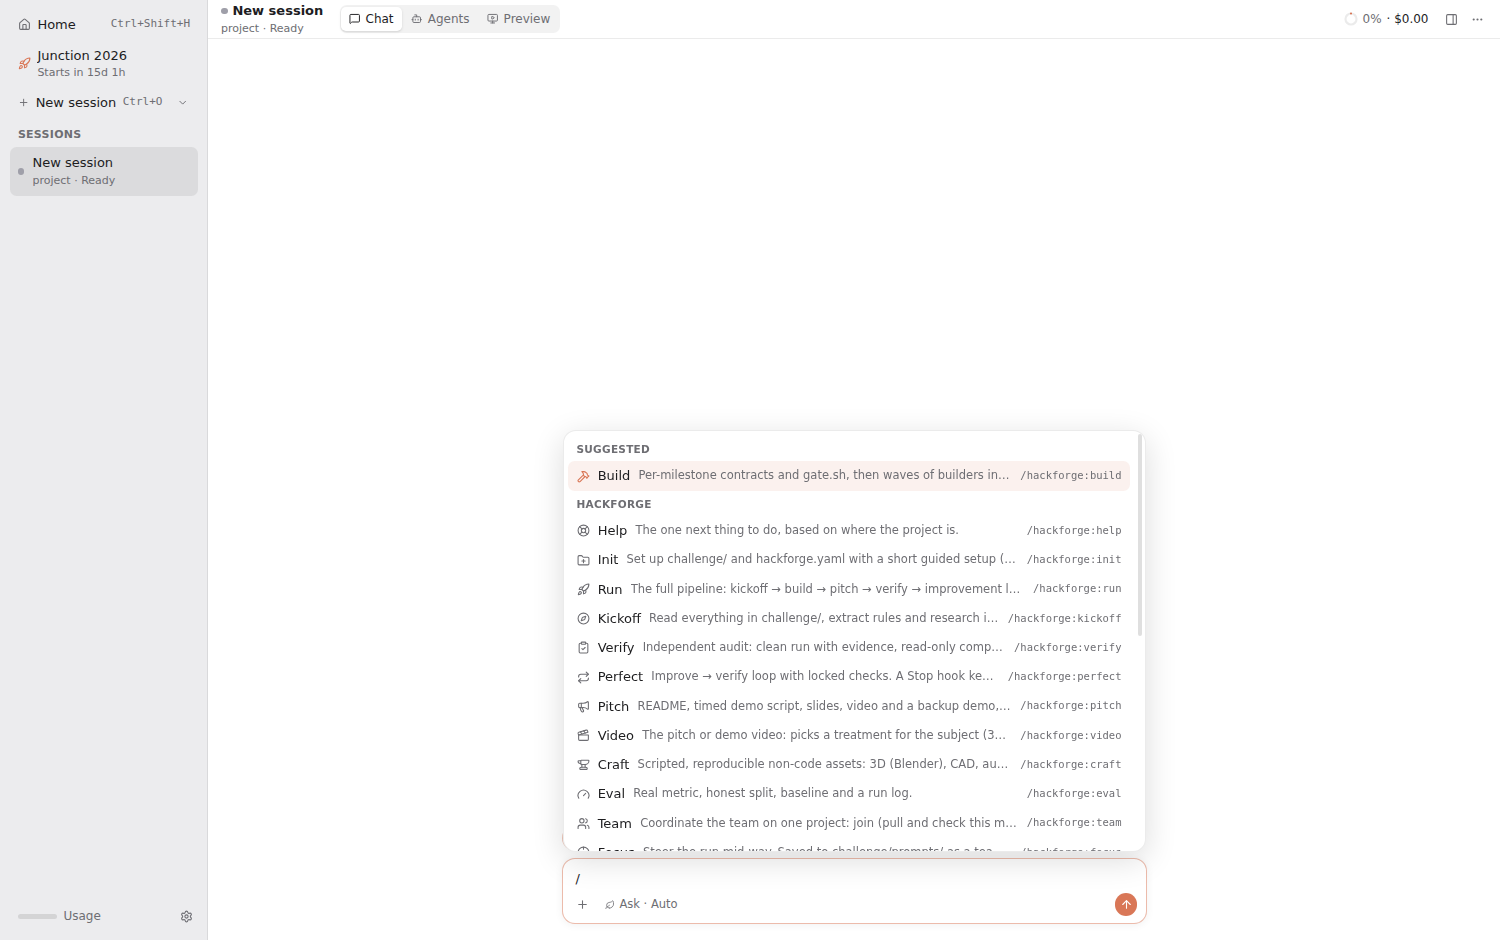
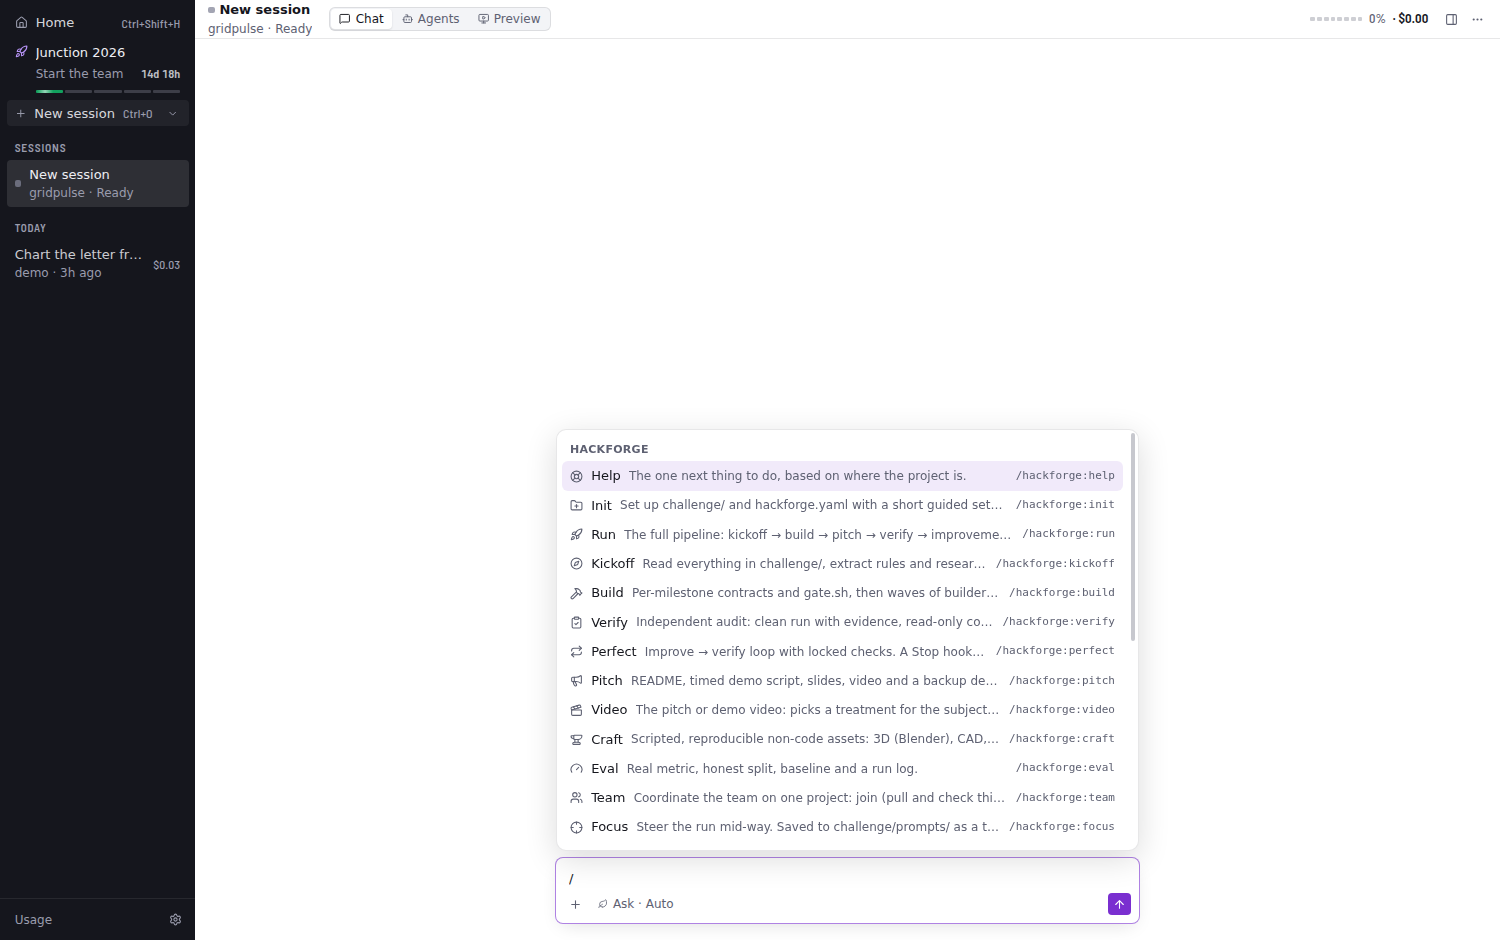
Live timing look: last review items, new README screenshots
- Violet stays for the best result and the primary button: the
  schedule's plan markers, "now" line and next item turn blue or ink,
  the theme chip, team-fit dots and your own team card go neutral.
- The top bar never wraps; in narrow windows the side-panel chip shows
  its icon only.
- The Home hackathon card shows the run's status under its name, so it
  no longer truncates next to the race clock.
- The unused pulse animation is gone.
- Every README screenshot retaken in the new look; alt texts follow the
  current names (Agents, Agents › Graph); a short note on the look.

diff --git a/src/renderer/src/features/event/EventSchedule.tsx b/src/renderer/src/features/event/EventSchedule.tsx
@@ -31,7 +31,7 @@ export function EventSchedule({ state }: { state: EventState }) {
             <div className="flex items-center gap-2">
               <CalendarClock className="size-5 text-accent-ink" />
               <h1 className="font-display text-[26px] font-semibold leading-tight">{config.name}</h1>
-              {config.theme && <span className="rounded-sm bg-accent/10 px-2 py-0.5 text-[11px] font-medium text-accent-ink">{config.theme}</span>}
+              {config.theme && <span className="rounded-sm border border-line bg-surface-2 px-2 py-0.5 text-[12px] font-medium">{config.theme}</span>}
             </div>
             {config.tagline && <div className="mt-0.5 text-[13px] italic text-muted">“{config.tagline}”</div>}
             {config.location && (
@@ -179,7 +179,7 @@ function Weekend({ state, now }: { state: EventState; now: number }) {
         <span className="ml-auto flex items-center gap-3 text-[11px] text-muted">
           <Legend className="bg-danger" label="Deadline" />
           <Legend className="bg-fg/50" label="Official" />
-          <Legend className="bg-accent" label="Our plan" />
+          <Legend className="bg-info" label="Our plan" />
           <Legend className="bg-(--series-7)/60" label="Sleep" />
         </span>
       </div>
@@ -205,9 +205,9 @@ function Weekend({ state, now }: { state: EventState; now: number }) {
           .filter((m) => m.kind === 'plan')
           .map((m) =>
             m.tEnd ? (
-              <div key={m.id} title={tip(m, tz)} className="absolute top-[40px] h-2 rounded-full bg-accent/40" style={{ left: pct(m.t), width: `calc(${pct(m.tEnd)} - ${pct(m.t)})` }} />
+              <div key={m.id} title={tip(m, tz)} className="absolute top-[40px] h-2 rounded-full bg-info/40" style={{ left: pct(m.t), width: `calc(${pct(m.tEnd)} - ${pct(m.t)})` }} />
             ) : (
-              <Marker key={m.id} m={m} tz={tz} left={pct(m.t)} top={38} className={cn('size-2.5 rounded-[2px] bg-accent', next?.id === m.id && 'ring-4 ring-accent-ink/25')} />
+              <Marker key={m.id} m={m} tz={tz} left={pct(m.t)} top={38} className={cn('size-2.5 rounded-[2px] bg-info', next?.id === m.id && 'ring-4 ring-info/25')} />
             ),
           )}
         {/* lane 3: sleep */}
@@ -219,8 +219,8 @@ function Weekend({ state, now }: { state: EventState; now: number }) {
             </div>
           ))}
         {now > t0 && now < t1 && (
-          <div className="absolute inset-y-0 w-0.5 bg-accent" style={{ left: pct(now) }}>
-            <span className="absolute -top-1 left-1 rounded bg-accent px-1 text-[9px] font-semibold text-white">now</span>
+          <div className="absolute inset-y-0 w-0.5 bg-fg" style={{ left: pct(now) }}>
+            <span className="num absolute -top-1 left-1 rounded-sm bg-fg px-1 text-[11px] font-semibold text-surface">now</span>
           </div>
         )}
       </div>
@@ -268,19 +268,19 @@ function Agenda({ state, now }: { state: EventState; now: number }) {
             const past = (m.tEnd ?? m.t) < now
             const isNext = clock.next?.id === m.id
             return (
-              <div key={m.id} title={m.note} className={cn('flex items-start gap-2 rounded px-1 py-0.5 text-[12px]', past && 'opacity-45', isNext && 'bg-accent/10')}>
+              <div key={m.id} title={m.note} className={cn('flex items-start gap-2 rounded px-1 py-0.5 text-[12px]', past && 'opacity-45', isNext && 'bg-info/10')}>
                 <span className="w-10 shrink-0 num text-muted">{formatInZone(m.t, tz, { hour: '2-digit', minute: '2-digit', hourCycle: 'h23' })}</span>
                 <span
                   className={cn(
                     'mt-1.5 size-1.5 shrink-0 rounded-[2px]',
-                    m.kind === 'deadline' ? 'bg-danger' : m.kind === 'official' ? 'bg-fg/50' : m.kind === 'sleep' ? 'bg-(--series-7)/60' : 'bg-accent',
+                    m.kind === 'deadline' ? 'bg-danger' : m.kind === 'official' ? 'bg-fg/50' : m.kind === 'sleep' ? 'bg-(--series-7)/60' : 'bg-info',
                   )}
                 />
                 <span className={cn('min-w-0 flex-1', m.kind === 'deadline' && 'font-semibold', m.kind === 'sleep' && 'text-muted')}>
                   {m.label}
                   {m.tEnd && <span className="text-muted"> → {formatInZone(m.tEnd, tz, { hour: '2-digit', minute: '2-digit', hourCycle: 'h23' })}</span>}
                 </span>
-                {isNext && <span className="shrink-0 text-[12px] num text-accent-ink">in {formatSpan(m.t - now)}</span>}
+                {isNext && <span className="num shrink-0 text-[12px] font-semibold text-info-ink">in {formatSpan(m.t - now)}</span>}
               </div>
             )
           })}

diff --git a/src/renderer/src/layout/TopBar.tsx b/src/renderer/src/layout/TopBar.tsx
@@ -79,11 +79,12 @@ function PanelChip({ session }: { session: SessionState }) {
     <button
       onClick={() => togglePanel()}
       title={shortcut('Side panel: tasks, changed files, agents (⌘I)')}
+      aria-label="Side panel"
       aria-pressed={open}
-      className={cn('no-drag flex h-7 items-center gap-1.5 rounded-md px-2 hover:bg-hover', open ? 'bg-active text-fg' : 'text-muted')}
+      className={cn('no-drag flex h-7 shrink-0 items-center gap-1.5 whitespace-nowrap rounded-md px-2 hover:bg-hover', open ? 'bg-active text-fg' : 'text-muted')}
     >
       <PanelRight className="size-4" />
-      {parts.length > 0 && <span className="num text-[13px]">{parts.join(' · ')}</span>}
+      {parts.length > 0 && <span className="num hidden text-[13px] min-[1180px]:inline">{parts.join(' · ')}</span>}
     </button>
   )
 }

diff --git a/src/renderer/src/features/event/TeamPanel.tsx b/src/renderer/src/features/event/TeamPanel.tsx
@@ -286,7 +286,7 @@ function Handoffs({ handoffs, meId }: { handoffs: OpenHandoff[]; meId: string })
 function MemberCard({ m, me, now, fmt }: { m: MemberStatus; me: boolean; now: number; fmt: (ms: number) => string }) {
   const online = me || isOnline(m, now)
   return (
-    <div className={cn('rounded-xl border p-3', me ? 'border-accent-ink/40' : 'border-line', !online && 'opacity-55')}>
+    <div className={cn('rounded-xl border p-3', me ? 'border-fg/30' : 'border-line', !online && 'opacity-55')}>
       <div className="flex items-center gap-2">
         <span className={cn('size-2 rounded-[2px]', online ? 'bg-ok' : 'bg-fg/30')} />
         <span className="font-semibold">{m.name}</span>

diff --git a/src/renderer/src/features/home/Home.tsx b/src/renderer/src/features/home/Home.tsx
@@ -173,7 +173,7 @@ function HackathonCard() {
             <span className="truncate font-semibold">{h.name}</span>
             {h.inbox > 0 && <span className="num rounded-sm bg-warn px-1.5 text-[12px] font-semibold leading-[18px] text-rail">{h.inbox} waiting</span>}
           </span>
-          <span className="block truncate text-[12px] text-muted">{started ? h.status : 'Team run, challenges, pitch and the clock'}</span>
+          <span className="block truncate text-[12px] text-muted">{h.status}</span>
         </span>
         {h.clock && (
           <span className="shrink-0 text-right" title={h.countdown}>

diff --git a/src/renderer/src/features/event/ChallengeBoard.tsx b/src/renderer/src/features/event/ChallengeBoard.tsx
@@ -224,7 +224,7 @@ function Scores({ c, onSet }: { c: Challenge; onSet: (k: CriterionKey, v: number
                   aria-label={`${cr.label}: ${n}`}
                   className={cn(
                     'size-3.5 rounded-full border',
-                    team !== undefined && n <= team ? 'border-accent-ink bg-accent' : 'border-line hover:border-accent-ink/60',
+                    team !== undefined && n <= team ? 'border-fg bg-fg' : 'border-line hover:border-fg/60',
                     ai === n && 'ring-2 ring-info/70 ring-offset-1 ring-offset-[var(--surface)]',
                   )}
                 />

diff --git a/src/renderer/src/layout/StatusChip.tsx b/src/renderer/src/layout/StatusChip.tsx
@@ -41,7 +41,7 @@ export function StatusChip({ session }: { session: SessionState }) {
           onClick={toggle}
           title="Context, plan usage and cost"
           className={cn(
-            'num flex h-7 items-center gap-2 rounded-md px-2 text-[13px] hover:bg-hover',
+            'num flex h-7 shrink-0 items-center gap-2 whitespace-nowrap rounded-md px-2 text-[13px] hover:bg-hover',
             open && 'bg-hover',
             tone === 'hot' ? 'text-danger-ink' : tone === 'warm' ? 'text-warn-ink' : 'text-muted',
           )}

diff --git a/src/renderer/src/styles.css b/src/renderer/src/styles.css
@@ -218,14 +218,6 @@ body,
   background: transparent;
 }
 
-@keyframes harness-pulse {
-  0%, 100% { opacity: 1; }
-  50% { opacity: 0.35; }
-}
-.animate-soft-pulse {
-  animation: harness-pulse 1.4s ease-in-out infinite;
-}
-
 @keyframes harness-caret {
   50% { opacity: 0; }
 }
@@ -273,7 +265,6 @@ body,
 }
 
 @media (prefers-reduced-motion: reduce) {
-  .animate-soft-pulse,
   .sector-live,
   .caret::after {
     animation: none;

diff --git a/README.md b/README.md
@@ -2,7 +2,7 @@
 
 A Mac app that runs Claude Code and shows what it's doing as it happens: streamed replies, every tool call, subagents, the task list, context usage and cost.
 
-![Three agents working in parallel on the Board, one streaming live training progress](docs/screenshots/board.png)
+![Three agents working in parallel in Agents, one streaming live training progress](docs/screenshots/board.png)
 
 ## Simple by default
 
@@ -76,7 +76,7 @@ Agents feed these visuals three ways:
 
 **Agents › Graph** puts two views together. On top is a live **agent graph**: the main agent and every subagent it spawns, nested by who spawned whom. Edges animate while an agent works, and each node shows its current activity, progress and recent tool calls. Below is a **timeline** with one lane per agent and a bar per tool call (colour = kind, length = duration). Parallel calls stack, and a shaded band shows each subagent's lifetime. Hover a bar for details, click it to open that call in its agent's detail view, and switch between All and Last 2 min.
 
-![Mission control](docs/screenshots/mission.png)
+![Agents › Graph: the agent graph over the timeline](docs/screenshots/mission.png)
 
 The **Files** section of the side panel (⌘I) has two parts:
 
@@ -378,6 +378,7 @@ The ElevenLabs key is stored in the Keychain, or read from `ELEVENLABS_API_KEY`.
 
 ## Everyday polish
 
+- **Readable at a glance:** the sidebar is a dark rail in light and dark mode, and four colours each mean one thing: green is working, yellow is waiting for you, red failed, violet is the best result and the main button. Progress shows as segmented bars everywhere (the team run, HackForge phases, agent progress, tool calls, plan and context usage), and every time, cost and count is set in a condensed font with even-width digits.
 - **Native menu** with every command and its shortcut. It also makes ⌘C/⌘V/⌘Z work everywhere.
 - **⌘K command palette:** commands, places and tabs, open sessions, History, projects, and every action from the / menu.
 - **Notifications:** when Claude needs approval, or finishes a turn longer than 15 s, while Harness is in the background or you're looking at another session. Clicking a notification jumps to the session. You can turn them off in Settings.
